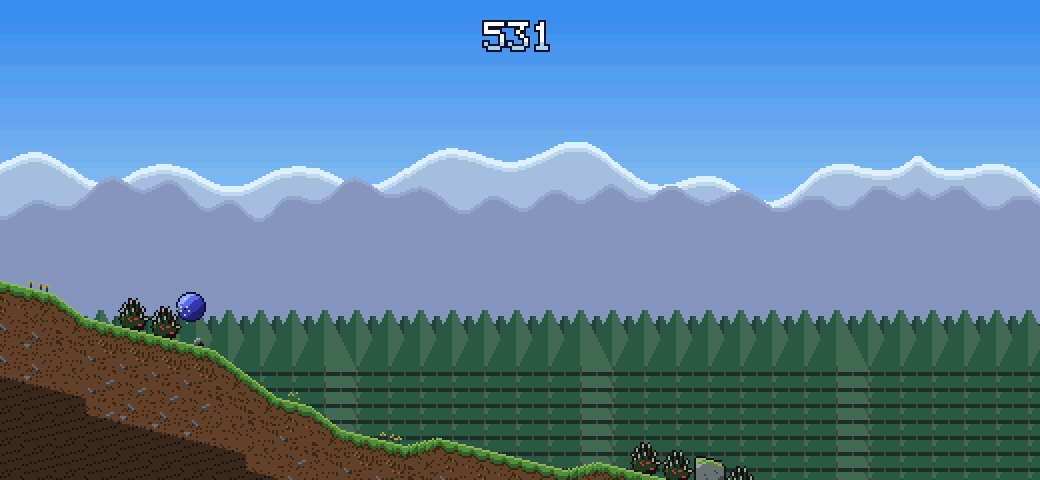
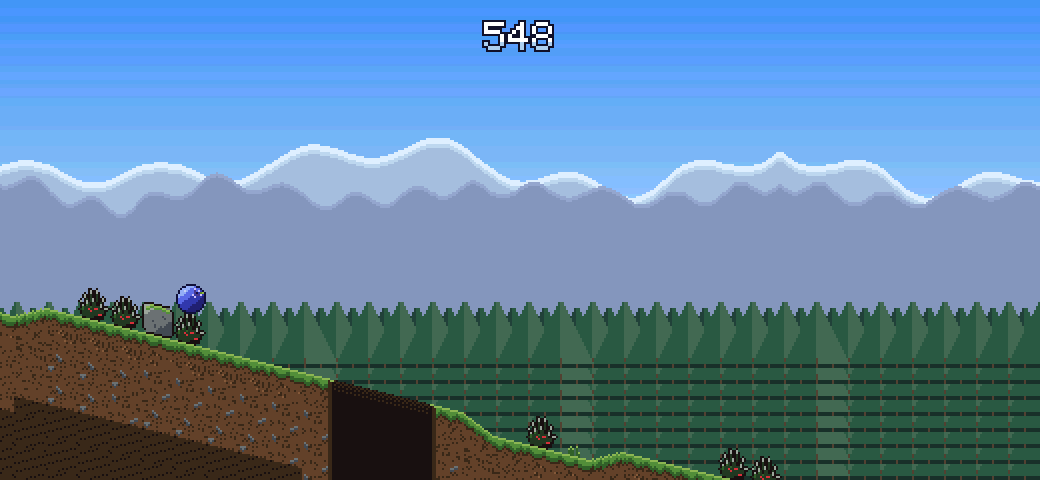
Blueberry Tumble: every width starts like 320 (no run-up)
The owner's rule for side-scrollers: the first obstacles sit at the same distance as at 320.
The one-bar early start at 520/560 is gone: the course clock starts at 0 at every width, the
first pattern 24 cells ahead on the same beat (on screen from the first frame beyond 480
columns). In the lobby (title, run not started) the course past the start is drawn as plain
ground with the start's scenery, so the placeholder course never shows changing at the press
(decor only; at 320 the lobby never shows that far). tests/wide_test.sh asserts offset 0 at
427, 520 and 560: the same first pattern instance (frame, column), events, pattern instances
and final state; the evlog's pattern lines now carry their frame. The tests' frames that made
room for the run-up are back as they were. Screenshots at 520 regenerated.

Changed region(s): [[0.0, 0.5625, 1.0, 1.0], [0.0, 0.2812, 1.0, 0.4688], [0.4615, 0.0312, 0.5538, 0.125]]

diff --git a/games/blueberrytumble/src/draw.c b/games/blueberrytumble/src/draw.c
@@ -280,12 +280,24 @@ static int draw_ramp(int32_t col, int b, int dy0, int dy1, int deep)
     return 1;
 }
 
-static void draw_column(const bt_course *c, int32_t col, int deep)
+/* Widescreen: the lobby (the title, a run not started) rolls on a placeholder course: the run's course comes from the
+ * press that starts it. A screen wider than 480 columns shows the course's first pattern (at START_CELLS) from the
+ * start, so in the lobby the course past the start is drawn as plain level ground with the start's scenery (its tall
+ * patterns, props and cones are not drawn); the run's real course is drawn at the press, when the title's text goes.
+ * At 320 columns the lobby never shows that far. */
+static const bt_col plain_col;
+
+static const bt_col *shown_col(const bt_course *c, int32_t col, int lobby)
 {
-    const bt_col *k = course_col(c, col), *kl = course_col(c, col - 1), *kr = course_col(c, col + 1);
+    return lobby && col >= START_CELLS ? &plain_col : course_col(c, col);
+}
+
+static void draw_column(const bt_course *c, int32_t col, int deep, int lobby)
+{
+    const bt_col *k = shown_col(c, col, lobby), *kl = shown_col(c, col - 1, lobby), *kr = shown_col(c, col + 1, lobby);
     int b = course_biome_of_col(col);
     /* the scenery varies with the run (the start, seen on the title, stays the same) */
-    uint32_t hsh = hash32((uint32_t)col * 2654435761u ^ (col >= START_CELLS ? c->dir.seed : 0));
+    uint32_t hsh = hash32((uint32_t)col * 2654435761u ^ (col >= START_CELLS && !lobby ? c->dir.seed : 0));
     if (k->dy0 != k->dy1 && draw_ramp(col, b, k->dy0, k->dy1, deep)) return;
     /* the column drawn k->dy0 px lower (whole tile rows), its 64 map rows: 20 of sky, 24 of cells, the surface (2),
      * the soil (18) */
@@ -332,7 +344,7 @@ static void draw_column(const bt_course *c, int32_t col, int deep)
     }
 }
 
-static void stream_playfield(const bt_course *c, int32_t cam_col)
+static void stream_playfield(const bt_course *c, int32_t cam_col, int lobby)
 {
     int32_t want_lo = cam_col - 2, want_hi = cam_col + 23 + extra_cols();   /* widescreen: up to the real edge */
     int32_t deep_hi = wide() ? cam_col + (RS_SCREEN_W - CELL) / CELL : want_hi;   /* the columns drawn as at 320 */
@@ -343,17 +355,17 @@ static void stream_playfield(const bt_course *c, int32_t cam_col)
     pf_col_lo = want_lo;
     /* widescreen: the columns that came within the 320 first columns get their deepest soil */
     for (; pf_deep_hi < deep_hi; pf_deep_hi++)
-        if (wide() && pf_deep_hi >= want_lo && pf_deep_hi < pf_col_hi) draw_column(c, pf_deep_hi, 1);
+        if (wide() && pf_deep_hi >= want_lo && pf_deep_hi < pf_col_hi) draw_column(c, pf_deep_hi, 1, lobby);
     while (pf_col_hi < want_hi) {
-        draw_column(c, pf_col_hi, !wide() || pf_col_hi < pf_deep_hi);
-        pf_gone[(uint32_t)pf_col_hi & 63] = course_col(c, pf_col_hi)->gone;
+        draw_column(c, pf_col_hi, !wide() || pf_col_hi < pf_deep_hi, lobby);
+        pf_gone[(uint32_t)pf_col_hi & 63] = shown_col(c, pf_col_hi, lobby)->gone;
         pf_col_hi++;
     }
     for (int32_t col = want_lo; col < want_hi; col++) {
-        uint16_t g = course_col(c, col)->gone;
+        uint16_t g = shown_col(c, col, lobby)->gone;
         if (pf_gone[(uint32_t)col & 63] != g) {
             pf_gone[(uint32_t)col & 63] = g;
-            draw_column(c, col, !wide() || col < pf_deep_hi);
+            draw_column(c, col, !wide() || col < pf_deep_hi, lobby);
         }
     }
 }
@@ -486,7 +498,7 @@ static void draw_props(const world *w, int t)
     const bt_course *c = &w->course;
     int32_t col0 = view_camx / CELL - 1;
     for (int32_t col = col0; col < col0 + 22 + extra_cols(); col++) {
-        const bt_col *k = course_col(c, col);
+        const bt_col *k = shown_col(c, col, !w->started);
         int sx = col * CELL - view_camx + CELL / 2;
         for (int r = 0; r < ROWS; r++) {
             int kind = k->cell[r];
@@ -521,7 +533,7 @@ static void draw_props(const world *w, int t)
     int64_t xref = course_x(c, w->f);
     for (int32_t i = c->ncone - 1; i >= 0 && i >= c->ncone - CONE_RING; i--) {
         const bt_cone *k = &c->cone[i % CONE_RING];
-        if (k->gone) continue;
+        if (k->gone || !w->started) continue;     /* the lobby: no cones (they belong to the patterns) */
         int kx = (int)(cone_x(k, xref) >> 16) - view_camx;
         if (kx < -16 || kx > rs_screen_width() + 16) continue;
         spr(SPR_CONE + (((unsigned)(-kx) / 4) & 3), kx - 8, screen_y(0, kx) - 15, 2, -1);
@@ -699,7 +711,7 @@ void draw_frame(const world *w, int state, int st_t, int best, int new_best, int
     view_c = -k256;
     view_vofs = GROUND_PY - GROUND_SCREEN_Y - cam_up - syk + cd;
     view_hofs = (camx - sxk) & (MAP_W * 8 - 1);
-    stream_playfield(c, camx < 0 ? -((-camx + CELL - 1) / CELL) : camx / CELL);
+    stream_playfield(c, camx < 0 ? -((-camx + CELL - 1) / CELL) : camx / CELL, !w->started);
     stream_mid(camx);
     load_slot_palettes(camx);
     /* the beat pulse: player 1's x counts the beats (64 px each), the bar's downbeat is stronger */
@@ -882,7 +894,7 @@ void draw_state_loaded(const world *w)
     if (d >= saved_w / 2) d -= saved_w;
     view_hofs = (view_camx - d) & (MAP_W * 8 - 1);
     pf_col_hi = INT32_MIN / 2;                  /* below any window: the whole window again */
-    stream_playfield(&w->course, view_camx < 0 ? -((-view_camx + CELL - 1) / CELL) : view_camx / CELL);
+    stream_playfield(&w->course, view_camx < 0 ? -((-view_camx + CELL - 1) / CELL) : view_camx / CELL, !w->started);
     mid_col_hi = -1000;
     stream_mid(view_camx);
     shown_state = -1;

diff --git a/games/blueberrytumble/src/world.c b/games/blueberrytumble/src/world.c
@@ -8,21 +8,6 @@
 
 #define PX64(v) ((int64_t)(v) * Q16_ONE)
 
-/* Widescreen (DESIGN.md "Widescreen"): the run-up. The course is the same at every width: flat ground from x 0, the
- * first pattern at START_CELLS (384 px). At the start the screen shows the course up to its right edge (PIVOT_X +
- * 384 = 480 is the first pattern's screen x): on a screen wider than that the start would show the first pattern
- * (and change it on the title, when the lobby's placeholder course gives way to the run's). So the berries start
- * whole bars before x 0 (the music's bars stay on the course's bar lines; whole frames at the first tempo, rounded
- * up: half a frame at most) and the first pattern waits off the real right edge. From x 0 on, the run is exactly the
- * run without a run-up (the same course, the same frames of the clock: course_x), `world_runup_frames()` later. */
-int world_runup_frames(void)
-{
-    int over = rs_screen_width() - PIVOT_X - START_CELLS * CELL;   /* px of the first pattern on screen at x 0 */
-    if (over <= 0) return 0;
-    int bars = (over + BAR_CELLS * CELL - 1) / (BAR_CELLS * CELL);
-    return (bars * (BAR_CELLS / BEAT_CELLS) * tier_fpb_num(0) + tier_fpb_den(0) - 1) / tier_fpb_den(0);
-}
-
 void world_init(world *w, int players, uint32_t seed)
 {
     memset(w, 0, sizeof *w);
@@ -31,10 +16,8 @@ void world_init(world *w, int players, uint32_t seed)
     director_fill(&w->course, 48);
     w->players = players;
     w->seed = seed;
-    w->f = -world_runup_frames();          /* the course clock: x 0 at frame 0 (widescreen: the run-up before) */
-    int64_t x0 = course_x(&w->course, w->f);
     for (int p = 0; p < MAX_PLAYERS; p++) {
-        berry_reset(&w->b[p], x0 - PX64(p * P2_OFFSET));
+        berry_reset(&w->b[p], -PX64(p * P2_OFFSET));
         w->b[p].need_release = 1;           /* the press that starts the run is not a jump */
         w->b[p].held = 1;
         if (p >= players) w->b[p].dead = 1;

diff --git a/games/blueberrytumble/src/main.c b/games/blueberrytumble/src/main.c
@@ -199,9 +199,6 @@ static void sounds_of(int p)
 static void play_update(void)
 {
     int held[MAX_PLAYERS] = {0};
-    /* the bot (a test hook) starts afresh at the start line, x 0: a run with a run-up (widescreen: world.c) is then
-     * played exactly like the run without one, world_runup_frames() later (tests/wide_test.sh) */
-    if (W.f == 0 && W.started) bot_reset();
     for (int p = 0; p < W.players; p++) held[p] = held_now(p);
     int32_t gate_before = (int32_t)((course_x(&W.course, W.f) >> 16) / CELL);
     world_step(&W, held);
@@ -213,7 +210,8 @@ static void play_update(void)
         const bt_seg *sg = course_seg_at(&W.course, (int32_t)((W.b[0].x >> 16) / CELL));
         if (sg && sg->col0 != log_seg && !W.b[0].dead) {
             log_seg = sg->col0;
-            rs_log("seg %s score %d target %d tier %d at %d m", pat_name(sg->pat), sg->score, sg->target, sg->tier, (int)sg->col0);
+            rs_log("seg %s score %d target %d tier %d at %d m (frame %u)", pat_name(sg->pat), sg->score, sg->target,
+                   sg->tier, (int)sg->col0, rs_frame_count());
         }
     }
     for (int p = 0; p < W.players; p++) {
@@ -339,16 +337,10 @@ static void game_state(void)
 #undef S
 
 /* after a state was loaded: the save RAM is not part of states, read it again (the best, the attempts). Widescreen: a
- * state of another width: the lobby's course (not started) gets this width's run-up (world.c), the maps are set up
- * for this width (draw.c); a run goes on where it was. */
+ * state of another width: the maps are set up for this width (draw.c); a run goes on where it was. */
 static void game_state_loaded(void)
 {
     save_load();
-    if (!W.started && W.f != -world_runup_frames()) {
-        world_init(&W, W.players, W.seed);
-        W.god = opt_god;
-        draw_reset();
-    }
     draw_state_loaded(&W);
 }
 

diff --git a/games/blueberrytumble/src/bt.h b/games/blueberrytumble/src/bt.h
@@ -215,7 +215,6 @@ typedef struct world {
     uint32_t seed;
 } world;
 void world_init(world *w, int players, uint32_t seed);
-int  world_runup_frames(void);                              /* widescreen: the run-up to x 0, frames (world.c) */
 void world_step(world *w, const int held[MAX_PLAYERS]);
 int  world_running(const world *w);
 int  world_x(const world *w, int p);                        /* px */

diff --git a/games/blueberrytumble/DESIGN.md b/games/blueberrytumble/DESIGN.md
@@ -209,15 +209,18 @@ The game opts in (`max_width` = 560, `WIDESCREEN_blueberrytumble = 1`): 320 (4:3
   biomes the ground leaves the bottom of the screen sooner, the valley (mid-ground, far range) shows there. Seeing
   further makes it a little easier; the owner accepts it (no compensation).
 - **The course and the music are the same at every width.** The director writes the same patterns on the same beats
-  (it already writes 40 columns ahead of the berry, past any screen's edge). Only the run-up may change: on a screen
-  wider than 480 columns the start would show the first pattern (at 384 px, 24 cells, from x 0), and the title would
-  show the lobby's placeholder course change into the run's, so the berries start **one bar earlier**, 113 frames: whole bars keep the music's bar lines on the course's (the 112.5 frames of a bar at the
-  first tempo, rounded up: the music is half a frame behind the course, a frame at 320). From x 0 on the run is the
-  same as at 320, frame for frame, 113 frames later: the course clock (`course_x`) starts at frame -113. The
-  screen-reading bot (a test hook) starts afresh at the start line, so its run is the 320 one too.
-  `tests/wide_test.sh` checks it: the same seed gives the same events (pads, dew drops, glides, snow, smashes, golden
-  blueberries, the splats) at the same metres, the same pattern instances and the same score at 320, 427, 520 and 560
-  (1 to 4 players), with a constant frame offset (0 at 427, 113 at 520 and 560).
+  (it already writes 40 columns ahead of the berry, past any screen's edge). **Every width starts exactly like 320**
+  (the owner's rule for side-scrollers: no longer run-up on a wide screen): the course clock from 0, the first pattern
+  at 384 px (24 cells) from the berry, on the same beat. Beyond 480 columns it is on screen from the first frame (on
+  the steep summit its low obstacles are still under the bottom edge; its tall ones show).
+- The lobby (the title, a run not started) rolls on a placeholder course (the run's comes from the press that starts
+  it), which a screen wider than 480 columns would show change at the press. So in the lobby the course past the start
+  is drawn as plain level ground with the start's scenery (no patterns, props or cones there); the run's real course
+  is drawn at the press, as the title's text goes. Decor only: at 320 the lobby never shows that far.
+- `tests/wide_test.sh` checks it: the same seed gives, frame for frame (offset 0), the same first pattern instance (its
+  frame and column), the same events (pads, dew drops, glides, snow, smashes, golden blueberries, the splats) at the
+  same metres, the same pattern instances and the same final state at 320, 427, 520 and 560 (1 to 4 players). The
+  screen-reading bot plays the same run at every width.
 - The playfield, the mid-ground and the UI layer are 128 tiles wide on a wide screen (64 at 320): the playfield and the
   mid-ground stream up to the real right edge (the mid-ground's columns take the biome of the ground that enters the
   screen with them), the props, cones and gusts are drawn up to it, the sky's colours fade at the gates by the
@@ -236,7 +239,7 @@ The game opts in (`max_width` = 560, `WIDESCREEN_blueberrytumble = 1`): 320 (4:3
 - Save states load at any width: a state of another width brings maps of another size, so `state_loaded` sets them up
   again (the far range of this width, the playfield and mid-ground streamed again at once, the scroll register for
   the new map, the UI and PAUSED on the next frame, "ATTEMPT n" and a biome's name kept); a run goes on exactly as it
-  was (its clock and run-up are in the state); a lobby (title, not started) takes this width's run-up.
+  was (the course and its clock are in the state, the same at every width).
   tests/wide_test.sh checks live changes of width in a run and on the title, and states across widths.
 
 ## Art and sound
